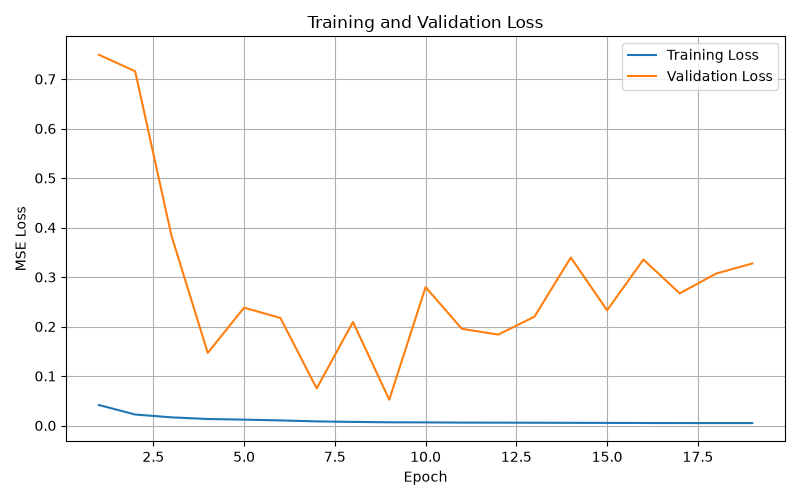
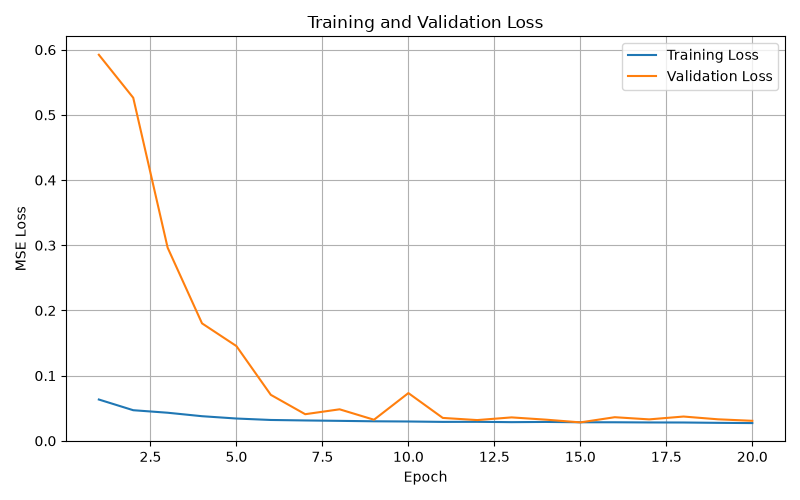
Added dropout and weight decay and re-trained the models

diff --git a/architecture.py b/architecture.py
@@ -24,7 +24,7 @@ import torch
 import torch.nn as nn
 
 class elongationCNN(nn.Module):
-    def __init__(self, input_size, num_filters=32, kernel_size=3, num_conv_layers=2, fc_hidden=None):
+    def __init__(self, input_size, num_filters=32, kernel_size=3, num_conv_layers=2, fc_hidden=None, dropout=0.2):
         super().__init__()
 
         layers = []
@@ -36,6 +36,7 @@ class elongationCNN(nn.Module):
             in_channels = num_filters
 
         self.conv = nn.Sequential(*layers)
+        self.dropout = nn.Dropout(dropout)
         self.pool = nn.AdaptiveAvgPool1d(1)
 
         if fc_hidden:
@@ -47,14 +48,16 @@ class elongationCNN(nn.Module):
         x = x.permute(0, 2, 1) # (batch_len, seq_len, input_size) --> (batch_len, input_size, seq_len)
         x = self.conv(x) # (batch_len, num_filters, seq_len)
         x = self.pool(x).squeeze(-1) # (batch_len, num_filters, 1) --> (batch_len, num_filters)
+        x = self.dropout(x)
 
         return self.fc(x)
 
 class elongationRNN(nn.Module):
-    def __init__(self, input_size, hid_size=32, num_layers=1, fc_hidden=None):
+    def __init__(self, input_size, hid_size=32, num_layers=1, fc_hidden=None, dropout=0.2):
         super().__init__()
 
         self.rnn = nn.RNN(input_size, hid_size, num_layers=num_layers, batch_first=True)
+        self.dropout = nn.Dropout(dropout)
 
         if fc_hidden:
             self.fc = nn.Sequential(nn.Linear(hid_size, fc_hidden), nn.ReLU(), nn.Linear(fc_hidden, 1))
@@ -64,14 +67,16 @@ class elongationRNN(nn.Module):
     def forward(self, x):
         output, _ = self.rnn(x)
         last_step = output[:, -1, :]
+        last_step = self.dropout(last_step)
 
         return self.fc(last_step)
 
 class elongationLSTM(nn.Module):
-    def __init__(self, input_size, hid_size=32, num_layers=1, fc_hidden=None):
+    def __init__(self, input_size, hid_size=32, num_layers=1, fc_hidden=None, dropout=0.2):
         super().__init__()
 
         self.lstm = nn.LSTM(input_size, hid_size, num_layers=num_layers, batch_first=True)
+        self.dropout = nn.Dropout(dropout)
 
         if fc_hidden:
             self.fc = nn.Sequential(nn.Linear(hid_size, fc_hidden), nn.ReLU(), nn.Linear(fc_hidden, 1))
@@ -81,14 +86,16 @@ class elongationLSTM(nn.Module):
     def forward(self, x):
         output, _ = self.lstm(x)
         last_step = output[:, -1, :]
+        last_step  = self.dropout(last_step)
 
         return self.fc(last_step)
 
 class elongationGRU(nn.Module):
-    def __init__(self, input_size, hid_size=32, num_layers=1, fc_hidden=None):
+    def __init__(self, input_size, hid_size=32, num_layers=1, fc_hidden=None, dropout=0.2):
         super().__init__()
 
         self.gru = nn.GRU(input_size, hid_size, num_layers=num_layers, batch_first=True)
+        self.dropout = nn.Dropout(dropout)
 
         if fc_hidden:
             self.fc = nn.Sequential(nn.Linear(hid_size, fc_hidden), nn.ReLU(), nn.Linear(fc_hidden, 1))
@@ -98,11 +105,12 @@ class elongationGRU(nn.Module):
     def forward(self, x):
         output, _ = self.gru(x)
         last_step = output[:, -1, :]
+        last_step = self.dropout(last_step)
 
         return self.fc(last_step)
 
 class elongationTransformer(nn.Module):
-    def __init__(self, input_size, seq_len, embed_dim=16, num_heads=2, num_layers=1, ff_dim=64, dropout=0.1):
+    def __init__(self, input_size, seq_len, embed_dim=16, num_heads=2, num_layers=1, ff_dim=64, dropout=0.2):
         super().__init__()
 
         self.input_proj = nn.Linear(input_size, embed_dim)

diff --git a/cnn_model.py b/cnn_model.py
@@ -25,7 +25,7 @@ seed = 42
 epochs = 100
 learning_rate = 0.001
 batch_size = 32
-early_stopping = 10
+early_stopping = 5
 
 device = torch.device("cuda" if torch.cuda.is_available() else "cpu")
 torch.manual_seed(seed)

diff --git a/lstm_model.py b/lstm_model.py
@@ -25,7 +25,7 @@ seed = 42
 epochs = 100
 learning_rate = 0.001
 batch_size = 32
-early_stopping = 10
+early_stopping = 5
 
 device = torch.device("cuda" if torch.cuda.is_available() else "cpu")
 torch.manual_seed(seed)
